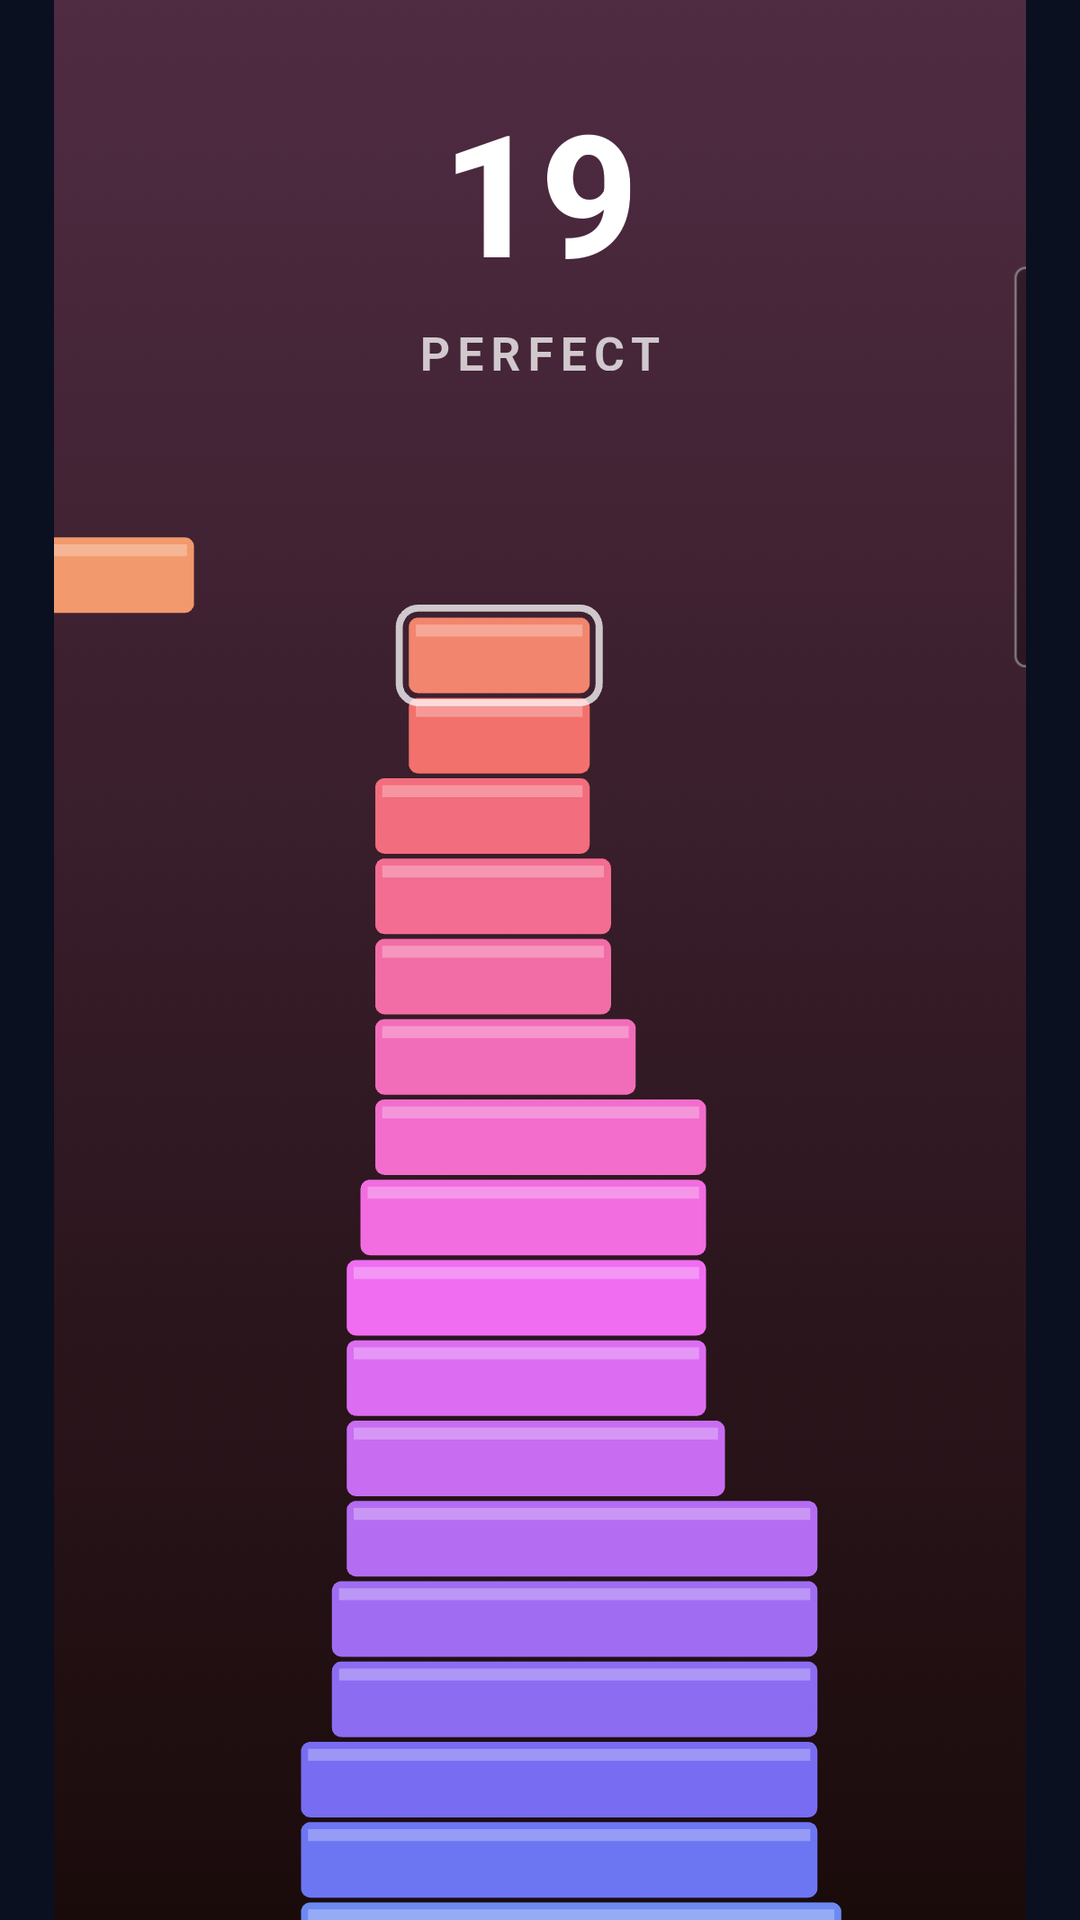
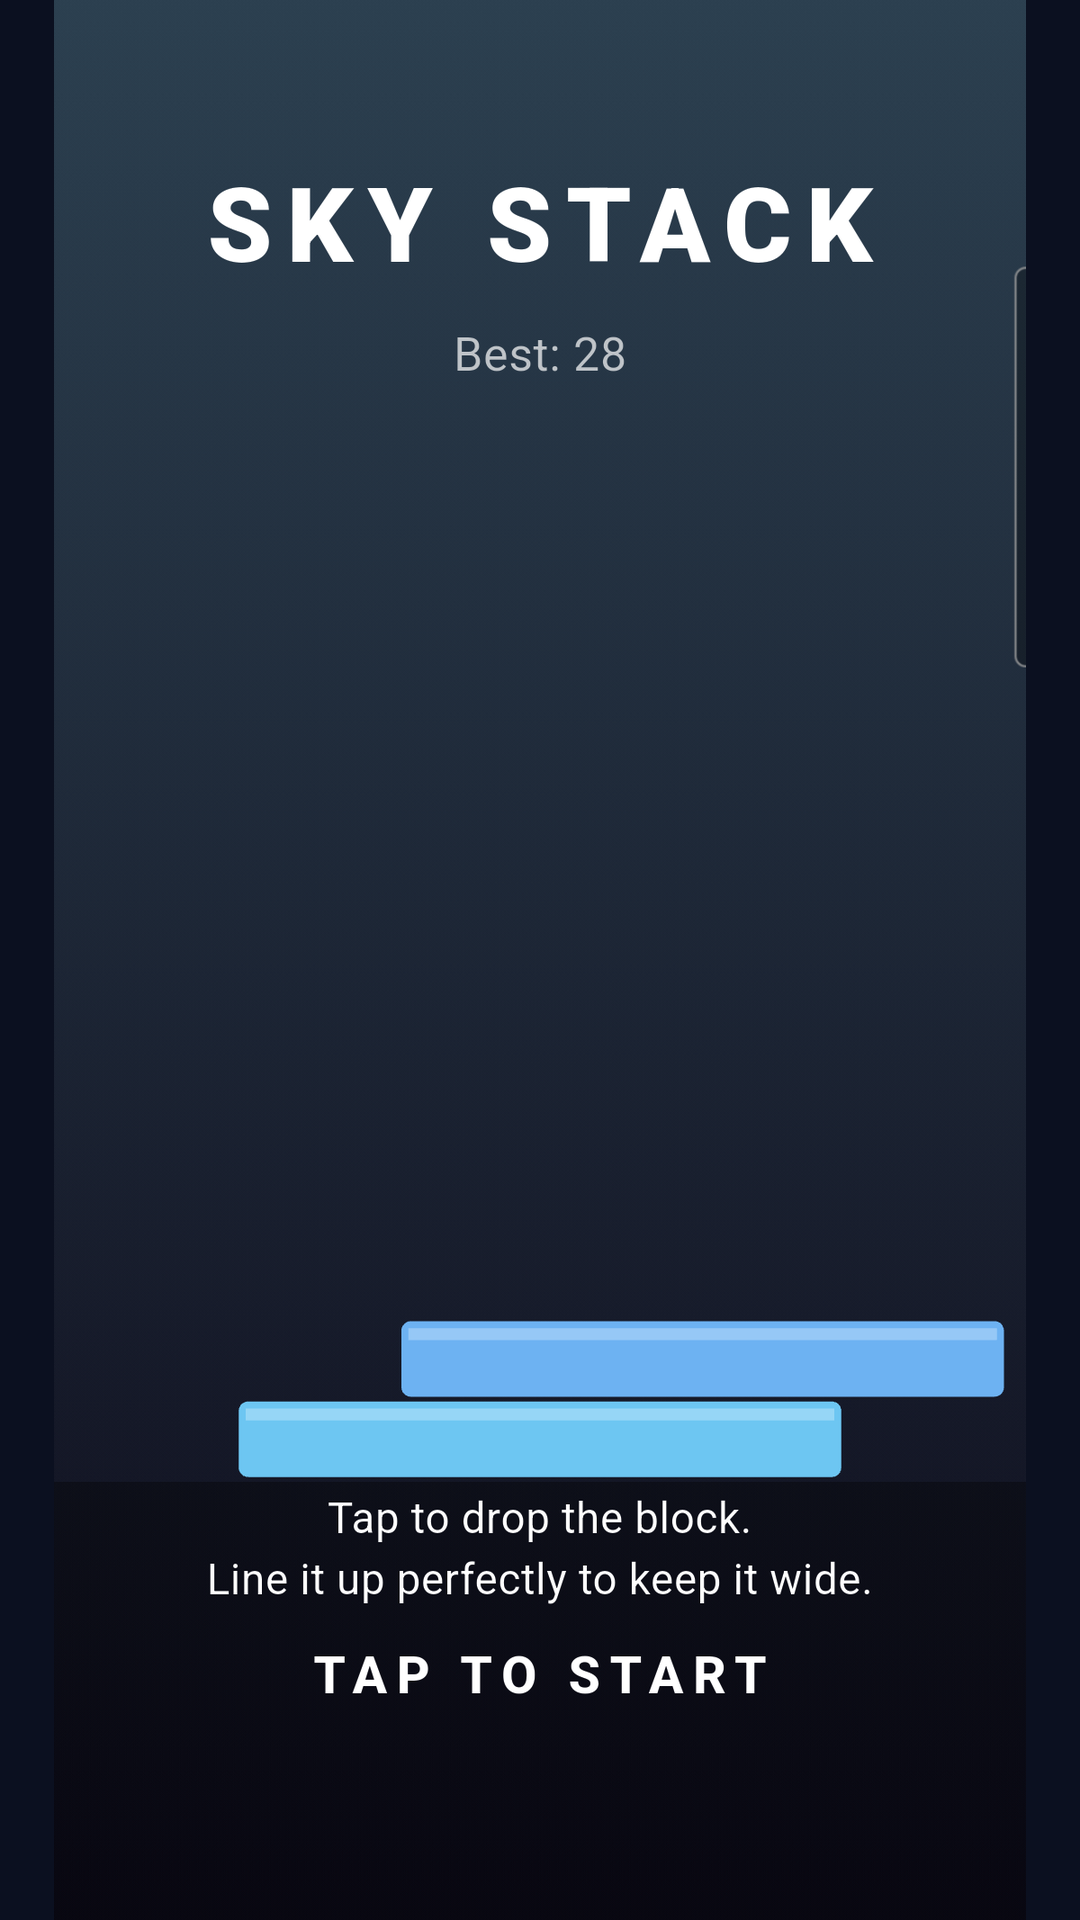
Quick Brain Games site

diff --git a/sky_stack/index.html b/sky_stack/index.html
@@ -10,7 +10,7 @@
 <span class="badge">Coming soon to Google Play</span></div></div>
 <img class="feature" src="feature.png" alt="Sky Stack">
 <h2>About the game</h2><p>Tap at the right moment to drop each block on the tower. Miss the edge and the overhang is sliced away, so the next block gets narrower. Land three perfect drops in a row and your block grows back.</p><ul><li>One-tap controls, playable with one hand</li><li>Calm colours that shift as your tower climbs</li><li>Perfect-drop combos that reward precision</li><li>Works offline, small download, no sign-up</li></ul>
-<h2>Screenshots</h2><div class="shots"><img src="shots/01.png" alt="Sky Stack screenshot 1" loading="lazy"><img src="shots/02.png" alt="Sky Stack screenshot 2" loading="lazy"><img src="shots/03.png" alt="Sky Stack screenshot 3" loading="lazy"></div>
+<h2>Screenshots</h2><div class="shots"><img src="shots/01.png" alt="Sky Stack screenshot 1" loading="lazy"><img src="shots/02.png" alt="Sky Stack screenshot 2" loading="lazy"><img src="shots/03.png" alt="Sky Stack screenshot 3" loading="lazy"><img src="shots/04.png" alt="Sky Stack screenshot 4" loading="lazy"></div>
 <h2>Share your score</h2><p>Post your best run with #SkyStack #BrainTapScore.</p>
 <h2>Support</h2><p>Questions or feedback: <a href="mailto:mysticecho.revisit@gmail.com">mysticecho.revisit@gmail.com</a><br>
 <a href="../privacy/sky_stack.html">Privacy policy</a></p>

diff --git a/color_rush/index.html b/color_rush/index.html
@@ -10,7 +10,7 @@
 <span class="badge">Coming soon to Google Play</span></div></div>
 <img class="feature" src="feature.png" alt="Colour Rush">
 <h2>About the game</h2><p>A shape falls. Tap the button with the same colour and shape before it crosses the line. Sounds easy, until the shapes speed up.</p><ul><li>One-hand reflex play, a round takes about a minute</li><li>Four colours, each with its own shape, so colour-blind players can play too</li><li>Three hearts, and you win one back every 10 shapes</li><li>Works offline, small download, no sign-up</li></ul>
-
+<h2>Screenshots</h2><div class="shots"><img src="shots/01.png" alt="Colour Rush screenshot 1" loading="lazy"><img src="shots/02.png" alt="Colour Rush screenshot 2" loading="lazy"><img src="shots/03.png" alt="Colour Rush screenshot 3" loading="lazy"><img src="shots/04.png" alt="Colour Rush screenshot 4" loading="lazy"></div>
 <h2>Share your score</h2><p>Post your best run with #ColourRush #BrainTapScore.</p>
 <h2>Support</h2><p>Questions or feedback: <a href="mailto:mysticecho.revisit@gmail.com">mysticecho.revisit@gmail.com</a><br>
 <a href="../privacy/color_rush.html">Privacy policy</a></p>

diff --git a/tint_tap/index.html b/tint_tap/index.html
@@ -10,7 +10,7 @@
 <span class="badge">Coming soon to Google Play</span></div></div>
 <img class="feature" src="feature.png" alt="Tint Tap">
 <h2>About the game</h2><p>The word says BLUE, but it is painted red. Which colour do you tap? Follow the rule at the top of the screen and tap before the timer runs out. The rule flips every 8 points and the clock keeps shrinking.</p><ul><li>Simple one-finger play</li><li>Colour shapes help colour-blind players</li><li>Gets faster the longer you last</li><li>Works offline, small download, no sign-up</li></ul>
-
+<h2>Screenshots</h2><div class="shots"><img src="shots/01.png" alt="Tint Tap screenshot 1" loading="lazy"><img src="shots/02.png" alt="Tint Tap screenshot 2" loading="lazy"><img src="shots/03.png" alt="Tint Tap screenshot 3" loading="lazy"><img src="shots/04.png" alt="Tint Tap screenshot 4" loading="lazy"></div>
 <h2>Share your score</h2><p>Post your best run with #TintTap #BrainTapScore.</p>
 <h2>Support</h2><p>Questions or feedback: <a href="mailto:mysticecho.revisit@gmail.com">mysticecho.revisit@gmail.com</a><br>
 <a href="../privacy/tint_tap.html">Privacy policy</a></p>

diff --git a/echo_tiles/index.html b/echo_tiles/index.html
@@ -10,7 +10,7 @@
 <span class="badge">Coming soon to Google Play</span></div></div>
 <img class="feature" src="feature.png" alt="Echo Tiles">
 <h2>About the game</h2><p>Four tiles light up in a pattern. Watch carefully, then tap the tiles in the same order. Every round adds one more tile, so the pattern gets harder to hold in your head.</p><ul><li>Simple one-finger play, a round takes under a minute</li><li>Each tile has its own shape, so it works for colour-blind players too</li><li>Works offline, small download, no sign-up</li></ul>
-
+<h2>Screenshots</h2><div class="shots"><img src="shots/01.png" alt="Echo Tiles screenshot 1" loading="lazy"><img src="shots/02.png" alt="Echo Tiles screenshot 2" loading="lazy"><img src="shots/03.png" alt="Echo Tiles screenshot 3" loading="lazy"><img src="shots/04.png" alt="Echo Tiles screenshot 4" loading="lazy"></div>
 <h2>Share your score</h2><p>Post your best run with #EchoTiles #BrainTapScore.</p>
 <h2>Support</h2><p>Questions or feedback: <a href="mailto:mysticecho.revisit@gmail.com">mysticecho.revisit@gmail.com</a><br>
 <a href="../privacy/echo_tiles.html">Privacy policy</a></p>

diff --git a/quick_sum/index.html b/quick_sum/index.html
@@ -10,7 +10,7 @@
 <span class="badge">Coming soon to Google Play</span></div></div>
 <img class="feature" src="feature.png" alt="Quick Sum">
 <h2>About the game</h2><p>7 + 8 = 16. True or false? A sum appears with an answer. Tap TRUE if it is correct, FALSE if it is not. The sums get bigger and the clock gets shorter the longer you last.</p><ul><li>One-tap play, no typing</li><li>Addition, subtraction and times tables</li><li>Works offline, small download, no sign-up</li></ul>
-
+<h2>Screenshots</h2><div class="shots"><img src="shots/01.png" alt="Quick Sum screenshot 1" loading="lazy"><img src="shots/02.png" alt="Quick Sum screenshot 2" loading="lazy"><img src="shots/03.png" alt="Quick Sum screenshot 3" loading="lazy"><img src="shots/04.png" alt="Quick Sum screenshot 4" loading="lazy"></div>
 <h2>Share your score</h2><p>Post your best run with #QuickSum #BrainTapScore.</p>
 <h2>Support</h2><p>Questions or feedback: <a href="mailto:mysticecho.revisit@gmail.com">mysticecho.revisit@gmail.com</a><br>
 <a href="../privacy/quick_sum.html">Privacy policy</a></p>
